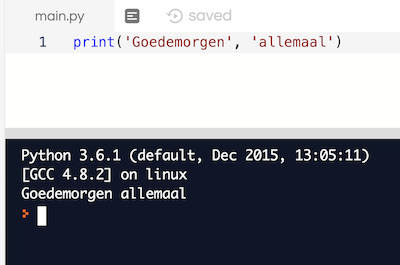
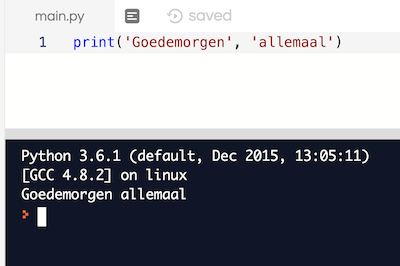
smaller image part 5

diff --git a/module-nederlands/les-1a.md b/module-nederlands/les-1a.md
@@ -141,7 +141,7 @@ Schrijf drie codes voor zinnetjes in je schrift.
 
 Soms geeft Python een foutmelding. 
 
-<img src="../img/image-20190126194646749.png" alt="image-20190126194646749" style="zoom:30%;" />
+<img src="../img/image-20190126194646749.png" alt="image-20190126194646749" />
 
 
 
